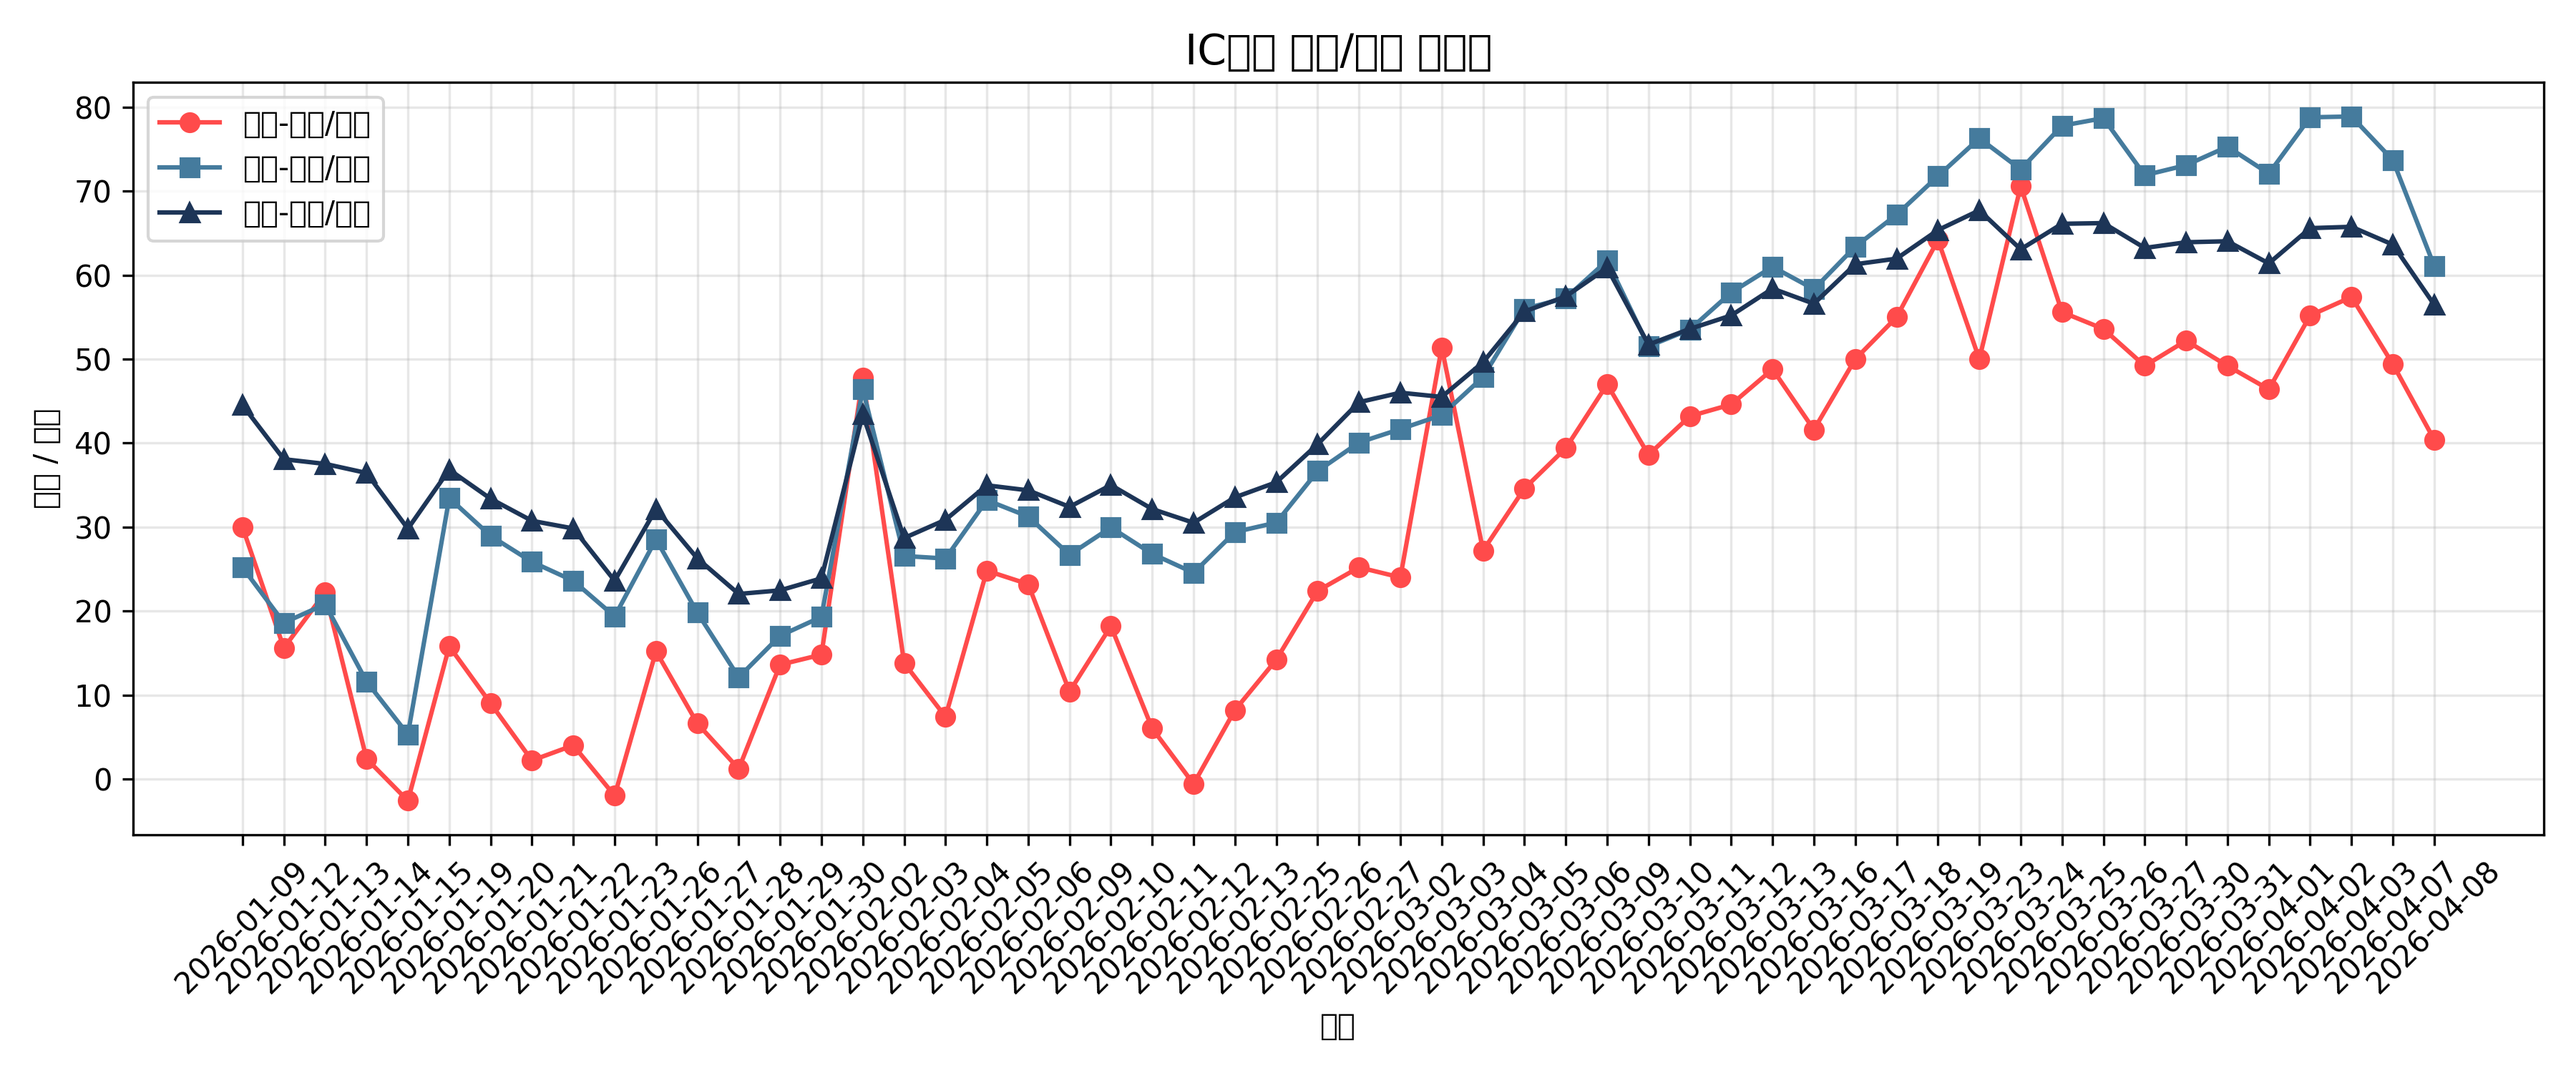
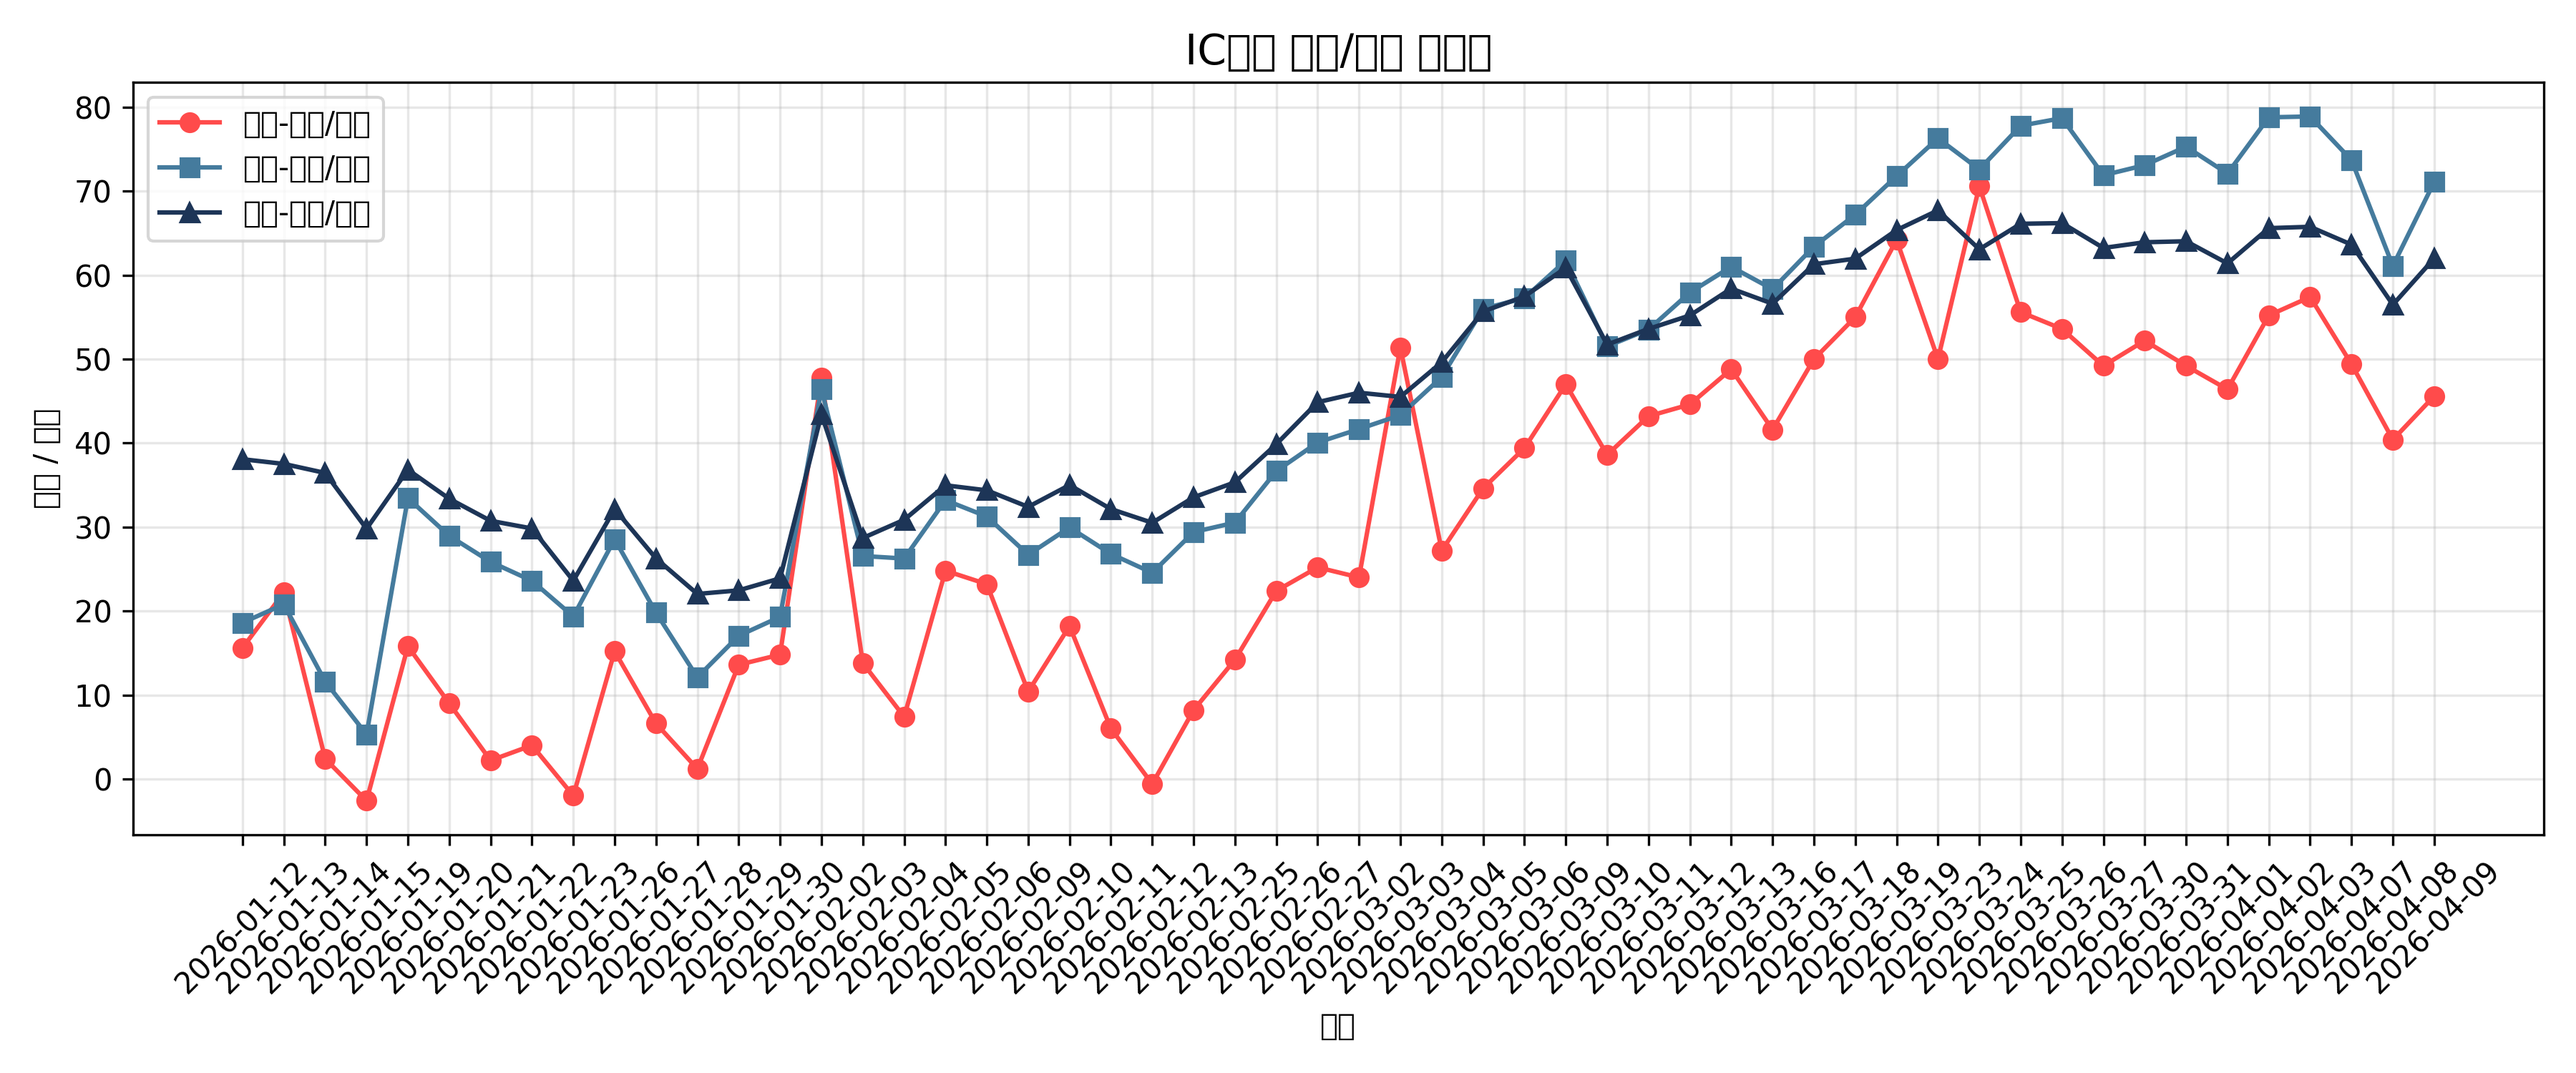
deploy: 4d1bb30b7b0bf8623cc214497fc979b4192c654b

diff --git a/index.html b/index.html
@@ -84,19 +84,19 @@
 <body>
     <div class="container">
         <h1>IC期货基差监控</h1>
-        <div class="last-updated">最后更新：2026-04-08 17:45:34</div>
+        <div class="last-updated">最后更新：2026-04-09 17:48:22</div>
         
         <div class="stats">
             <div class="stat-card">
-                <div class="stat-value">40.4</div>
+                <div class="stat-value">45.6</div>
                 <div class="stat-label">当月-下月/月差</div>
             </div>
             <div class="stat-card">
-                <div class="stat-value">61.1</div>
+                <div class="stat-value">71.1</div>
                 <div class="stat-label">当月-当季/月差</div>
             </div>
             <div class="stat-card">
-                <div class="stat-value">56.48</div>
+                <div class="stat-value">62.0</div>
                 <div class="stat-label">当月-下季/月差</div>
             </div>
         </div>
@@ -114,14 +114,6 @@
                 <th>当月-下月/月差</th>
                 <th>当月-当季/月差</th>
                 <th>当月-下季/月差</th>
-            </tr>
-
-            <tr>
-                <td>2026-03-30</td>
-                <td>IC2604</td>
-                <td>52.2</td>
-                <td>73.1</td>
-                <td>63.92</td>
             </tr>
 
             <tr>
@@ -170,6 +162,14 @@
                 <td>40.4</td>
                 <td>61.1</td>
                 <td>56.48</td>
+            </tr>
+
+            <tr>
+                <td>2026-04-09</td>
+                <td>IC2604</td>
+                <td>45.6</td>
+                <td>71.1</td>
+                <td>62.0</td>
             </tr>
 
         </table>
